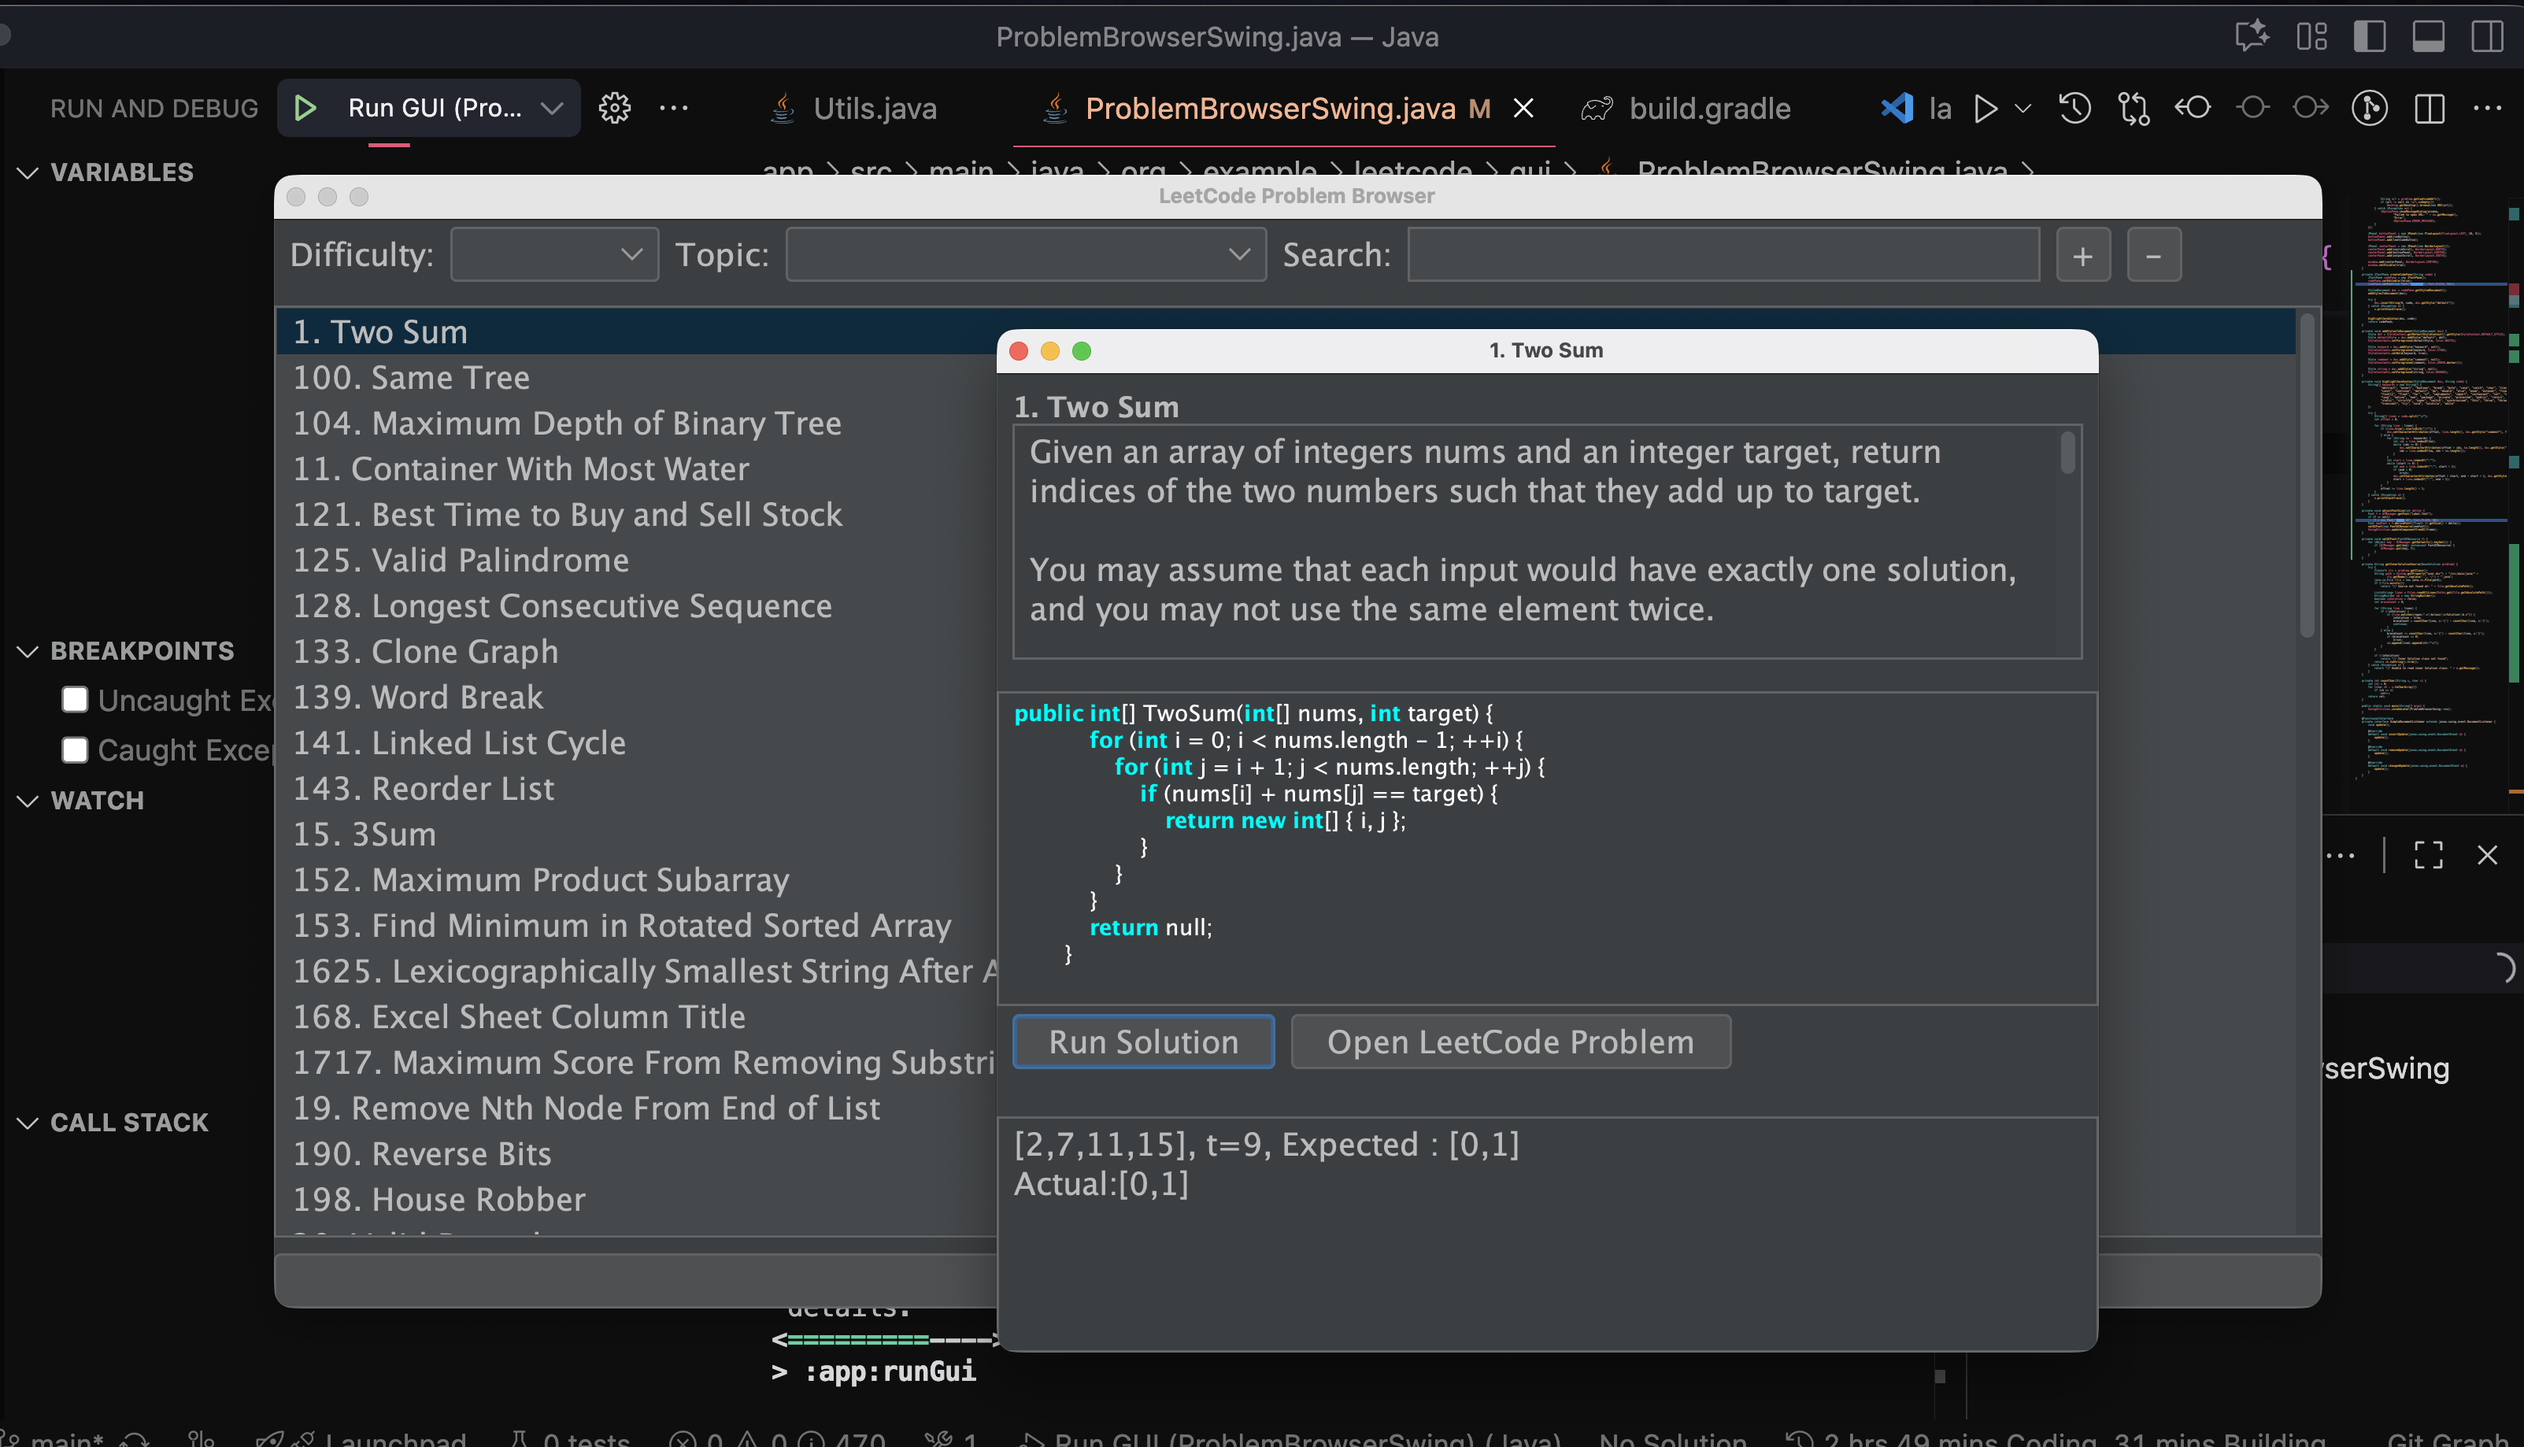
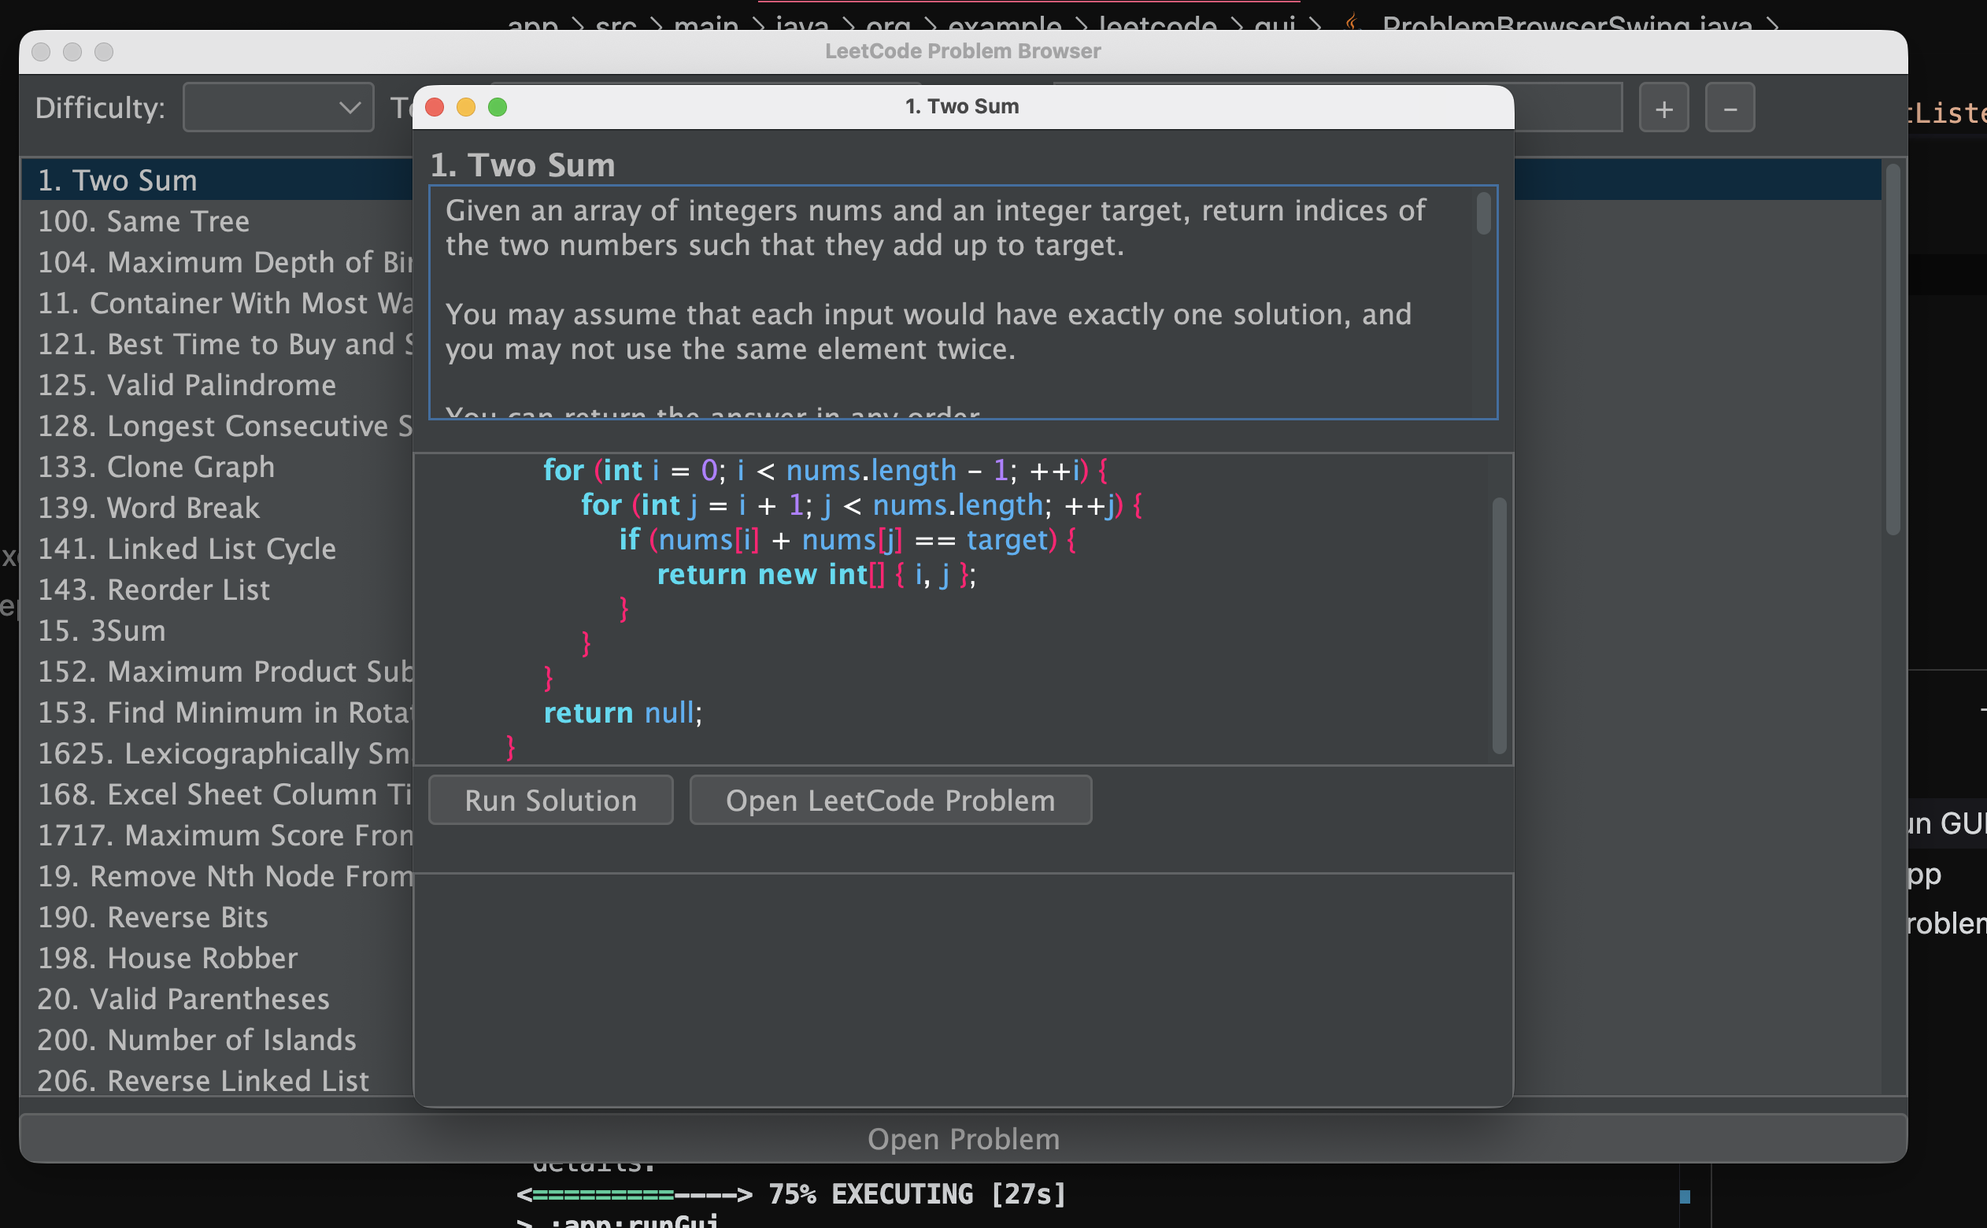
feat: update gui

diff --git a/Java/app/src/main/java/org/example/leetcode/gui/ProblemBrowserSwing.java b/Java/app/src/main/java/org/example/leetcode/gui/ProblemBrowserSwing.java
@@ -16,10 +16,8 @@ import java.lang.reflect.Modifier;
 import java.net.URI;
 import java.nio.file.Files;
 import java.nio.file.Paths;
-import java.util.ArrayList;
-import java.util.Comparator;
+import java.util.*;
 import java.util.List;
-import java.util.Set;
 import java.util.stream.Collectors;
 
 public class ProblemBrowserSwing {
@@ -64,7 +62,8 @@ public class ProblemBrowserSwing {
             e.printStackTrace();
         }
 
-        FontUIResource f = new FontUIResource("Segoe UI", Font.PLAIN, 16);
+        // default font +2 size
+        FontUIResource f = new FontUIResource("Segoe UI", Font.PLAIN, 18);
         setUIFont(f);
 
         frame = new JFrame("LeetCode Problem Browser");
@@ -89,7 +88,7 @@ public class ProblemBrowserSwing {
         searchField = new JTextField(20);
         searchField.getDocument().addDocumentListener((SimpleDocumentListener) this::updateList);
 
-        // Font size buttons
+        // font size buttons
         JButton increaseFontBtn = new JButton("+");
         JButton decreaseFontBtn = new JButton("-");
         increaseFontBtn.addActionListener(e -> adjustFontSize(2));
@@ -158,7 +157,7 @@ public class ProblemBrowserSwing {
         topPanel.setBorder(new EmptyBorder(10, 10, 10, 10));
 
         JLabel title = new JLabel(problem.getName());
-        title.setFont(title.getFont().deriveFont(Font.BOLD, 18f));
+        title.setFont(title.getFont().deriveFont(Font.BOLD, 20f));
         topPanel.add(title, BorderLayout.NORTH);
 
         JTextArea descArea = new JTextArea(problem.getDescription());
@@ -230,7 +229,7 @@ public class ProblemBrowserSwing {
     private JTextPane createCodePane(String code) {
         JTextPane codePane = new JTextPane();
         codePane.setEditable(false);
-        codePane.setFont(new Font("Consolas", Font.PLAIN, 14));
+        codePane.setFont(new Font("Consolas", Font.PLAIN, 18));
 
         StyledDocument doc = codePane.getStyledDocument();
         addStylesToDocument(doc);
@@ -251,25 +250,50 @@ public class ProblemBrowserSwing {
         StyleConstants.setForeground(defaultStyle, Color.WHITE);
 
         Style keyword = doc.addStyle("keyword", null);
-        StyleConstants.setForeground(keyword, Color.CYAN);
+        StyleConstants.setForeground(keyword, new Color(102, 217, 239));
         StyleConstants.setBold(keyword, true);
 
         Style comment = doc.addStyle("comment", null);
-        StyleConstants.setForeground(comment, Color.GREEN.darker());
+        StyleConstants.setForeground(comment, new Color(117, 113, 94));
+        StyleConstants.setItalic(comment, true);
 
         Style string = doc.addStyle("string", null);
-        StyleConstants.setForeground(string, Color.ORANGE);
+        StyleConstants.setForeground(string, new Color(255, 198, 109));
+
+        Style type = doc.addStyle("type", null);
+        StyleConstants.setForeground(type, new Color(166, 226, 46));
+        StyleConstants.setBold(type, true);
+
+        Style number = doc.addStyle("number", null);
+        StyleConstants.setForeground(number, new Color(174, 129, 255));
+
+        Style annotation = doc.addStyle("annotation", null);
+        StyleConstants.setForeground(annotation, new Color(166, 226, 46));
+
+        Style bracket = doc.addStyle("bracket", null);
+        StyleConstants.setForeground(bracket, new Color(249, 38, 114));
+
+        Style variable = doc.addStyle("variable", null);
+        StyleConstants.setForeground(variable, new Color(97, 175, 239));
     }
 
     private void highlightJavaSyntax(StyledDocument doc, String code) {
-        String[] keywords = new String[] {
-                "abstract", "assert", "boolean", "break", "byte", "case", "catch", "char", "class",
-                "const", "continue", "default", "do", "double", "else", "enum", "extends", "final",
-                "finally", "float", "for", "if", "implements", "import", "instanceof", "int", "interface",
-                "long", "native", "new", "package", "private", "protected", "public", "return", "short",
-                "static", "strictfp", "super", "switch", "synchronized", "this", "throw", "throws",
-                "transient", "try", "void", "volatile", "while"
+        String[] keywords = {
+                "abstract", "assert", "boolean", "break", "byte", "case", "catch", "char", "class", "continue",
+                "default", "do",
+                "double", "else", "enum", "extends", "final", "finally", "float", "for", "if", "implements", "import",
+                "instanceof",
+                "int", "interface", "long", "native", "new", "package", "private", "protected", "public", "return",
+                "short", "static",
+                "strictfp", "super", "switch", "synchronized", "this", "throw", "throws", "transient", "try", "void",
+                "volatile", "while"
         };
+
+        String[] types = { "String", "Integer", "Double", "Float", "List", "Map", "Set", "HashMap", "ArrayList",
+                "HashSet", "Object" };
+
+        Set<String> keywordSet = new HashSet<>(Arrays.asList(keywords));
+        Set<String> typeSet = new HashSet<>(Arrays.asList(types));
 
         try {
             String[] lines = code.split("\n");
@@ -282,10 +306,23 @@ public class ProblemBrowserSwing {
                     for (String kw : keywords) {
                         int idx = line.indexOf(kw);
                         while (idx >= 0) {
-                            doc.setCharacterAttributes(offset + idx, kw.length(), doc.getStyle("keyword"), false);
+                            if (isStandaloneToken(line, idx, kw.length())) {
+                                doc.setCharacterAttributes(offset + idx, kw.length(), doc.getStyle("keyword"), false);
+                            }
                             idx = line.indexOf(kw, idx + kw.length());
                         }
                     }
+
+                    for (String tp : types) {
+                        int idx = line.indexOf(tp);
+                        while (idx >= 0) {
+                            if (isStandaloneToken(line, idx, tp.length())) {
+                                doc.setCharacterAttributes(offset + idx, tp.length(), doc.getStyle("type"), false);
+                            }
+                            idx = line.indexOf(tp, idx + tp.length());
+                        }
+                    }
+
                     int start = line.indexOf("\"");
                     while (start >= 0) {
                         int end = line.indexOf("\"", start + 1);
@@ -293,6 +330,54 @@ public class ProblemBrowserSwing {
                             break;
                         doc.setCharacterAttributes(offset + start, end - start + 1, doc.getStyle("string"), false);
                         start = line.indexOf("\"", end + 1);
+                    }
+
+                    for (int i = 0; i < line.length(); i++) {
+                        if (Character.isDigit(line.charAt(i))) {
+                            int len = 1;
+                            while (i + len < line.length()
+                                    && (Character.isDigit(line.charAt(i + len)) || line.charAt(i + len) == '.'))
+                                len++;
+                            doc.setCharacterAttributes(offset + i, len, doc.getStyle("number"), false);
+                            i += len - 1;
+                        }
+                    }
+
+                    int annIdx = line.indexOf("@");
+                    while (annIdx >= 0) {
+                        int len = 1;
+                        while (annIdx + len < line.length()
+                                && Character.isJavaIdentifierPart(line.charAt(annIdx + len)))
+                            len++;
+                        doc.setCharacterAttributes(offset + annIdx, len, doc.getStyle("annotation"), false);
+                        annIdx = line.indexOf("@", annIdx + len);
+                    }
+
+                    for (char c : new char[] { '{', '}', '(', ')', '[', ']' }) {
+                        int idx = line.indexOf(c);
+                        while (idx >= 0) {
+                            doc.setCharacterAttributes(offset + idx, 1, doc.getStyle("bracket"), false);
+                            idx = line.indexOf(c, idx + 1);
+                        }
+                    }
+
+                    // variables
+                    String[] tokens = line.split("[^A-Za-z0-9_]");
+                    for (String token : tokens) {
+                        if (token.matches("[A-Za-z_][A-Za-z0-9_]*") &&
+                                !keywordSet.contains(token) &&
+                                !typeSet.contains(token) &&
+                                !token.startsWith("@")) {
+
+                            int idx = line.indexOf(token);
+                            while (idx >= 0) {
+                                if (isStandaloneToken(line, idx, token.length())) {
+                                    doc.setCharacterAttributes(offset + idx, token.length(), doc.getStyle("variable"),
+                                            false);
+                                }
+                                idx = line.indexOf(token, idx + token.length());
+                            }
+                        }
                     }
                 }
                 offset += line.length() + 1;
@@ -302,10 +387,16 @@ public class ProblemBrowserSwing {
         }
     }
 
+    private boolean isStandaloneToken(String line, int idx, int length) {
+        boolean beforeOK = idx == 0 || !Character.isJavaIdentifierPart(line.charAt(idx - 1));
+        boolean afterOK = (idx + length >= line.length()) || !Character.isJavaIdentifierPart(line.charAt(idx + length));
+        return beforeOK && afterOK;
+    }
+
     private void adjustFontSize(int delta) {
         Font f = UIManager.getFont("Label.font");
         if (f == null)
-            f = new Font("Segoe UI", Font.PLAIN, 16);
+            f = new Font("Segoe UI", Font.PLAIN, 18);
         Font newFont = f.deriveFont((float) (f.getSize() + delta));
         setUIFont(new FontUIResource(newFont));
         SwingUtilities.updateComponentTreeUI(frame);
